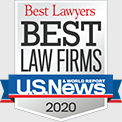
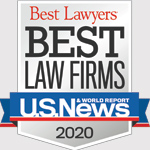
no message

diff --git a/site/layouts/partials/herolower.html b/site/layouts/partials/herolower.html
@@ -14,7 +14,7 @@
             <picture>
                 <source data-srcset="{{ .Site.BaseURL }}img/bestlawfirms-2020.webp" type="image/webp" class="img-fluid">
                 <source data-srcset="{{ .Site.BaseURL }}img/bestlawfirms-2020.jpg" type="image/jpg" class="img-fluid">
-                <img data-src="{{ .Site.BaseURL }}img/bestlawfirms_2020.svg" src="" class="img-fluid lazyload" alt="Best Lawyers Best Law Firms U.S. News and World Report 2020">
+                <img data-src="{{ .Site.BaseURL }}img/bestlawfirms-2020.jpg" src="" class="img-fluid lazyload" alt="Best Lawyers Best Law Firms U.S. News and World Report 2020">
             </picture>
         </div>
     </div>
